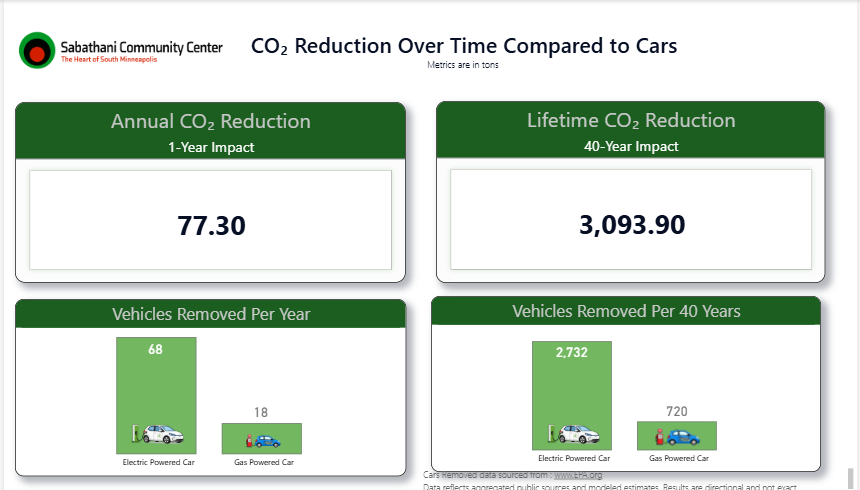
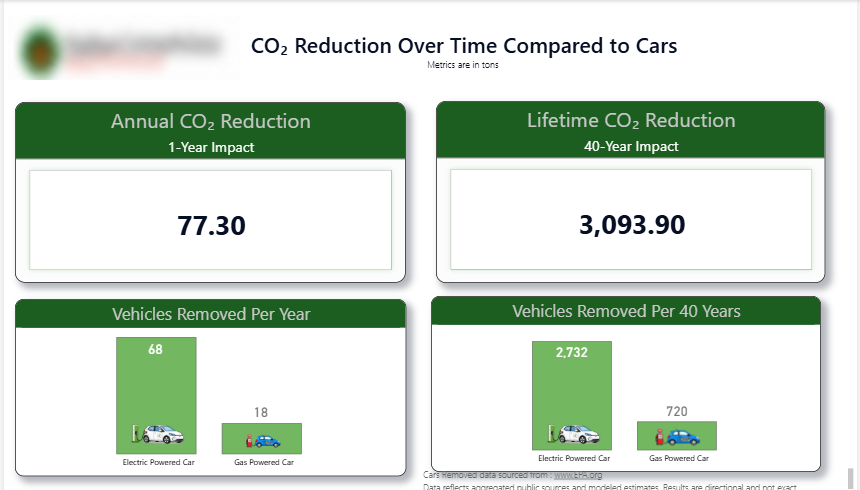
Anonymize dashboard branding and connect analytics project to hiring section

Changed region(s): [[0.0, 0.0306, 0.2721, 0.1837]]

diff --git a/index.html b/index.html
@@ -33,7 +33,7 @@
 <section class="section alt" id="powerbi">
   <div class="wrap">
     <div class="kicker">Featured Technical Project · Microsoft Power BI</div>
-    <h2>Power BI in Action: From Complex Data to Clear Decisions</h2>
+    <h2>Turning energy data into decisions people can use</h2>
     <p class="section-intro">During a five-week Smart North internship case study, I worked with a teammate to translate complex community energy data into interactive Power BI reporting. I focused on the technical framework and visual storytelling, then presented our work to approximately 30 attendees.</p>
     <div class="dashboard-showcase">
       <article class="dashboard-panel">
@@ -45,7 +45,7 @@
         <a class="dashboard-image-link" href="PowerBI_CO2_Readable.png" target="_blank" rel="noopener noreferrer" aria-label="Open CO2 Reduction Power BI dashboard full size">
           <img src="PowerBI_CO2_Readable.png" alt="Power BI CO2 reduction dashboard displaying modeled annual and long-term environmental impacts" loading="lazy">
         </a>
-        <p class="dashboard-hint">Select the dashboard to open the original full-resolution image ↗</p>
+        <p class="dashboard-hint">Select the dashboard to open the full-resolution dashboard image ↗</p>
       </article>
       <article class="dashboard-panel">
         <div class="dashboard-copy">
@@ -56,10 +56,10 @@
         <a class="dashboard-image-link" href="PowerBI_Grocery_Housing_Readable.png" target="_blank" rel="noopener noreferrer" aria-label="Open Grocery and Housing Programs Power BI dashboard full size">
           <img src="PowerBI_Grocery_Housing_Readable.png" alt="Power BI community programs dashboard with modeled grocery and housing support scenarios" loading="lazy">
         </a>
-        <p class="dashboard-hint">Select the dashboard to open the original full-resolution image ↗</p>
+        <p class="dashboard-hint">Select the dashboard to open the full-resolution dashboard image ↗</p>
       </article>
     </div>
-    <p class="note">Collaborative case study. Figures represent modeled estimates, not actual savings or observed outcomes. Original dashboard screenshots are intentionally shown in full without cutting off labels, text, or charts.</p>
+    <p class="note">Collaborative case study. Figures represent modeled estimates, not actual savings or observed outcomes. Dashboard images retain complete labels and charts; organization branding has been obscured for privacy.</p>
   </div>
 </section>
 <section class="section" id="approach"><div class="wrap"><div class="kicker">How I get productive</div><h2>I don't need to know everything on day one.<br>I know how to find what matters.</h2><p class="section-intro">I won't pretend to understand your business before I arrive. I will bring a repeatable approach to learning it and making myself useful.</p><div class="steps"><div class="step"><div class="when">DAY 1</div><h3>Get oriented</h3><p>Understand the outcomes, urgent customer or operational issues, stakeholder expectations, and existing commitments.</p></div><div class="step"><div class="when">WEEK 1</div><h3>Find the friction</h3><p>Map workflows, learn the systems and people, spot handoff gaps, and take responsibility for clearly defined priorities.</p></div><div class="step"><div class="when">FIRST 30 DAYS</div><h3>Make progress visible</h3><p>Deliver assigned work, communicate clearly, document what helps, and recommend evidence-backed improvements.</p></div></div></div></section>
@@ -77,6 +77,6 @@
 <p class="note">Credentials and course completions are distinct. Coursework is not presented as a professional certification or evidence of enterprise-scale production deployment.</p>
 </div>
 </section>
-<section class="section fit" id="contact"><div class="wrap fit-grid"><div><div class="kicker">Let's solve something worth solving</div><h2>Bring me in when people, process, and technology need to work better together.</h2><p style="color:#c6d9d0">I'm exploring enterprise customer success, technical customer success, technology adoption, and business transformation roles, with remote and hybrid opportunities preferred.</p><div class="hero-actions"><a class="btn" href="mailto:hello.kateedupont@outlook.com?subject=Let's%20connect%20-%20Katee%20Dupont">Email Katee →</a><a class="btn outline" href="https://www.linkedin.com/in/kateedupont1/" target="_blank" rel="noopener noreferrer">LinkedIn profile ↗</a></div></div><div><h3>Where I add value</h3><ul><li>Customer relationships need clearer plans, communication, or ownership.</li><li>A rollout requires alignment between decision-makers, technical teams, and users.</li><li>Operational reporting needs to become actionable.</li><li>A cross-functional problem needs someone who will learn quickly and follow through.</li></ul></div></div></section></main>
+<section class="section fit" id="contact"><div class="wrap fit-grid"><div><div class="kicker">Open to work</div><h2>My next chapter.<br>Your next team member.</h2><p style="color:#c6d9d0">I’ve invested in hands-on Microsoft, analytics, and AI training to build on 15+ years of enterprise customer experience. My portfolio shows the work behind that transition.</p><p style="color:#c6d9d0">I’m ready to bring curiosity, ownership, and follow-through to a team focused on customer success, technical enablement, or AI adoption.</p><p style="color:#c6d9d0">Open to remote or hybrid opportunities in Minnesota or Wisconsin, with moderate travel.</p><h3>Hiring? Let’s talk.</h3><div class="hero-actions"><a class="btn" href="mailto:hello.kateedupont@outlook.com?subject=Let's%20connect%20-%20Katee%20Dupont">Let’s talk →</a><a class="btn outline" href="https://www.linkedin.com/in/kateedupont1/" target="_blank" rel="noopener noreferrer">LinkedIn profile ↗</a></div></div><div><h3>See the skills in action</h3><p style="color:#c6d9d0">For a DOE-funded community-energy initiative, I worked with a teammate to develop Power BI dashboards, DAX measures, KPI scorecards, and geospatial analysis.</p><ul><li>Used Microsoft Copilot to assist with DAX development, data reconciliation, and reporting.</li><li>Translated modeled findings into clear dashboards and presented to stakeholders.</li><li>Identified potential process improvements and savings opportunities, clearly distinguishing projected benefits from realized results.</li></ul><p style="color:#c6d9d0">This work connects technical analysis with a skill I bring to customer teams: helping people understand what the findings mean and how to use them.</p><a class="btn" href="#powerbi">Explore the dashboard project →</a><p style="color:#c6d9d0;margin-top:18px;font-size:14px">Power BI · Copilot-Assisted Analytics · Data Storytelling · Stakeholder Presentations</p></div></div></section></main>
 <footer class="footer"><div class="wrap"><span>© 2026 Katee Dupont · Enterprise Customer Success & Technology Adoption</span><span><a href="mailto:hello.kateedupont@outlook.com">Email</a> · <a href="https://www.linkedin.com/in/kateedupont1/">LinkedIn</a></span></div></footer>
 </body></html>
